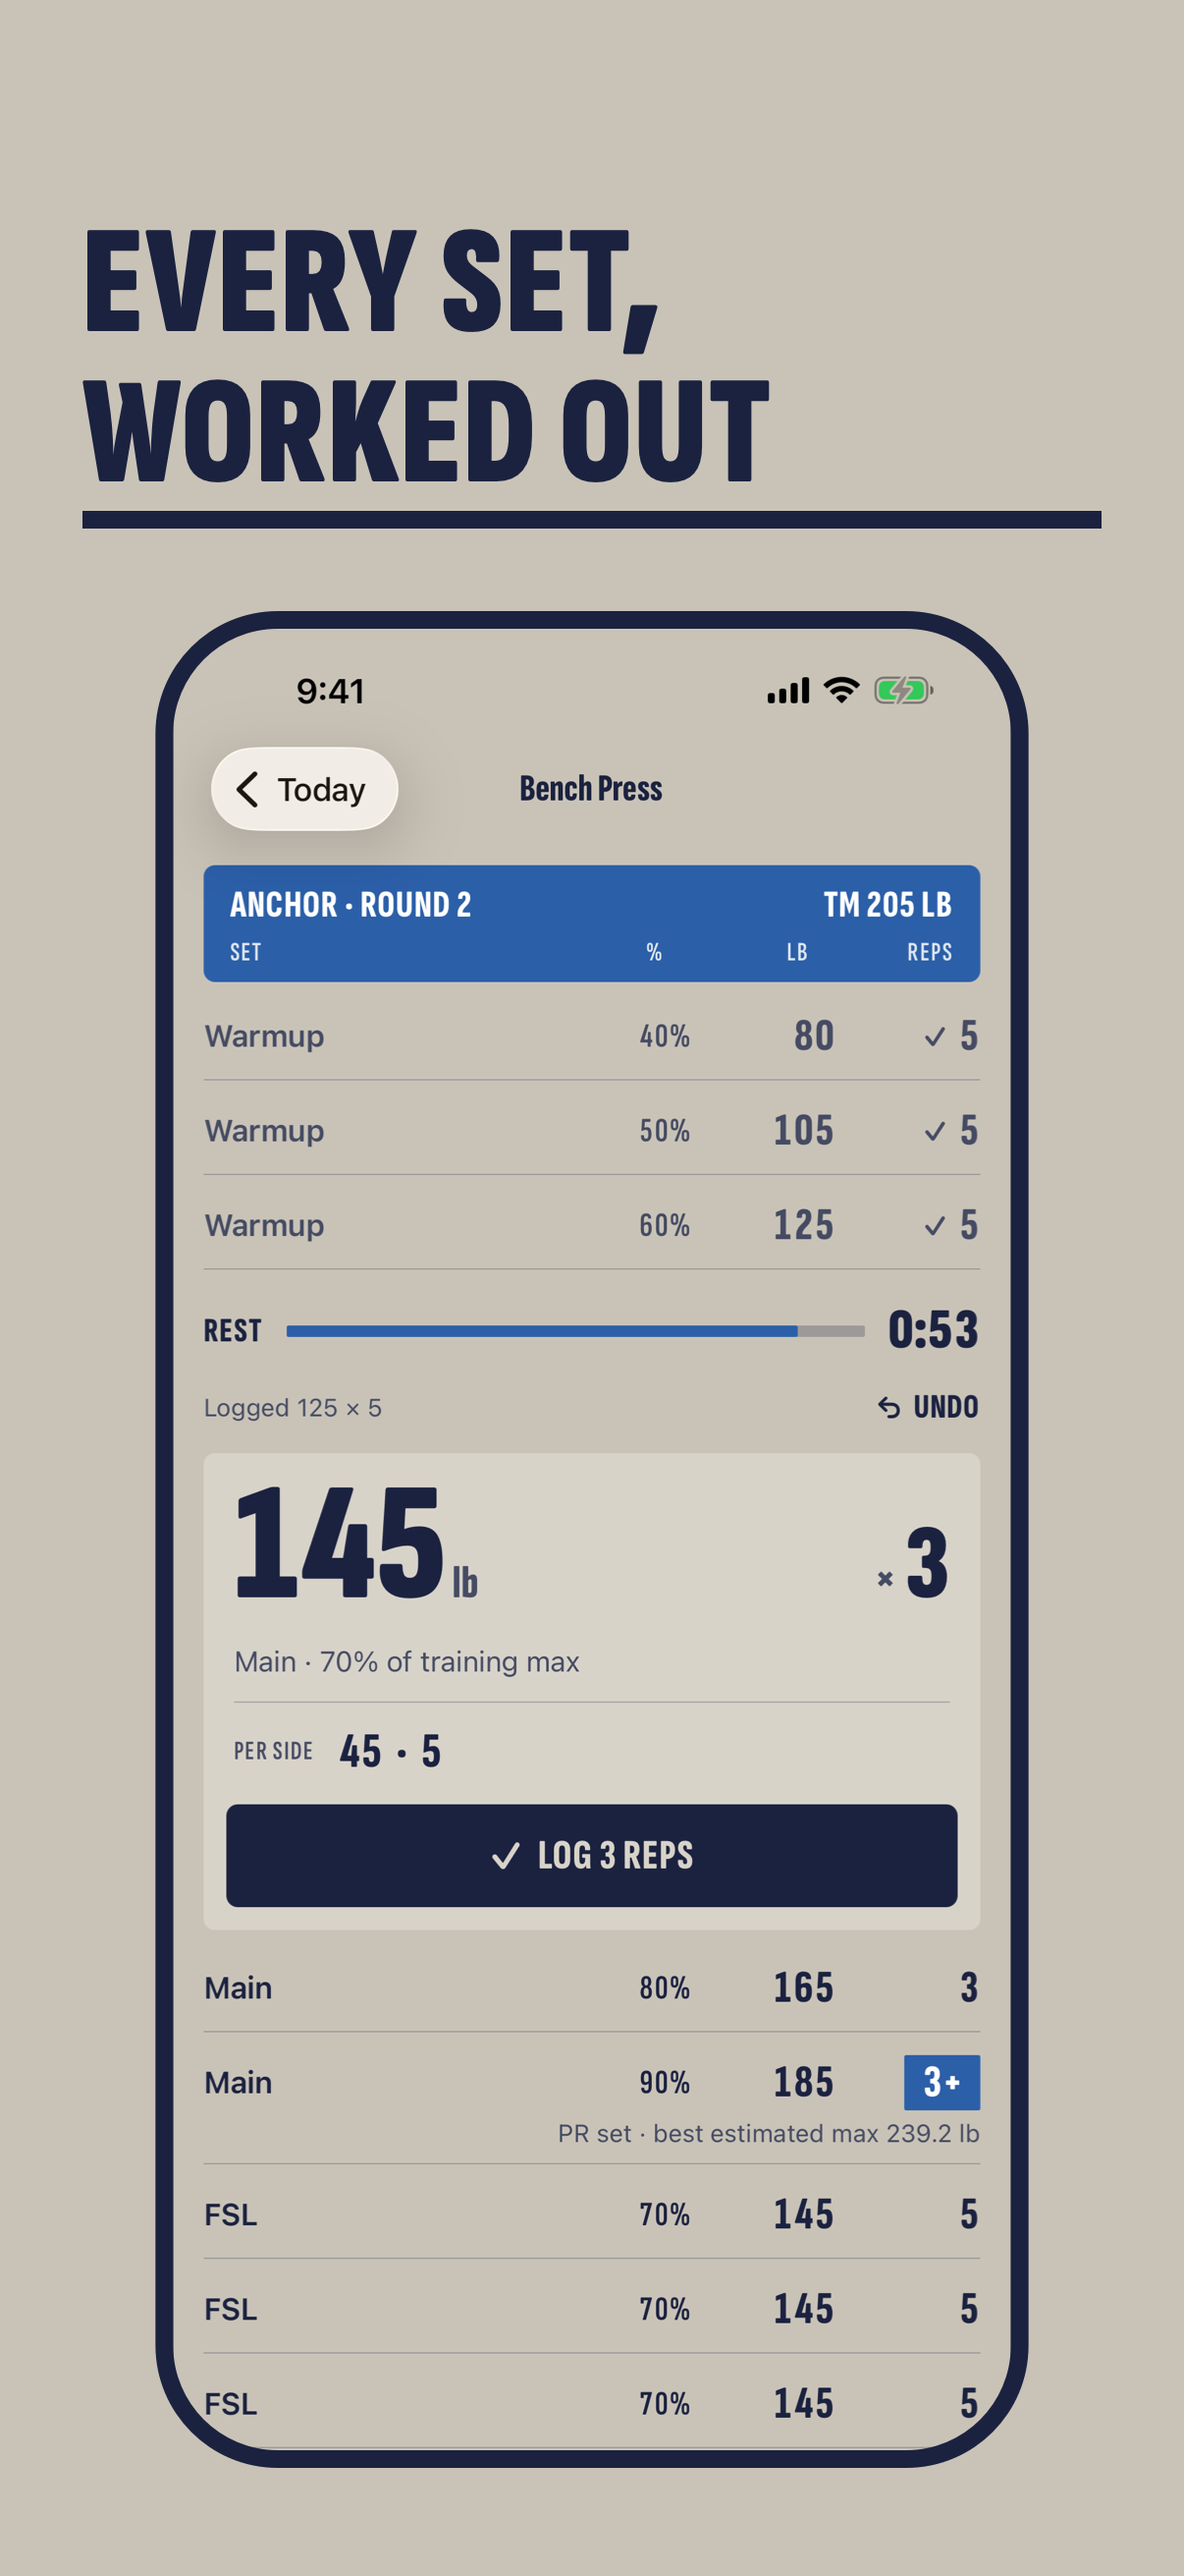
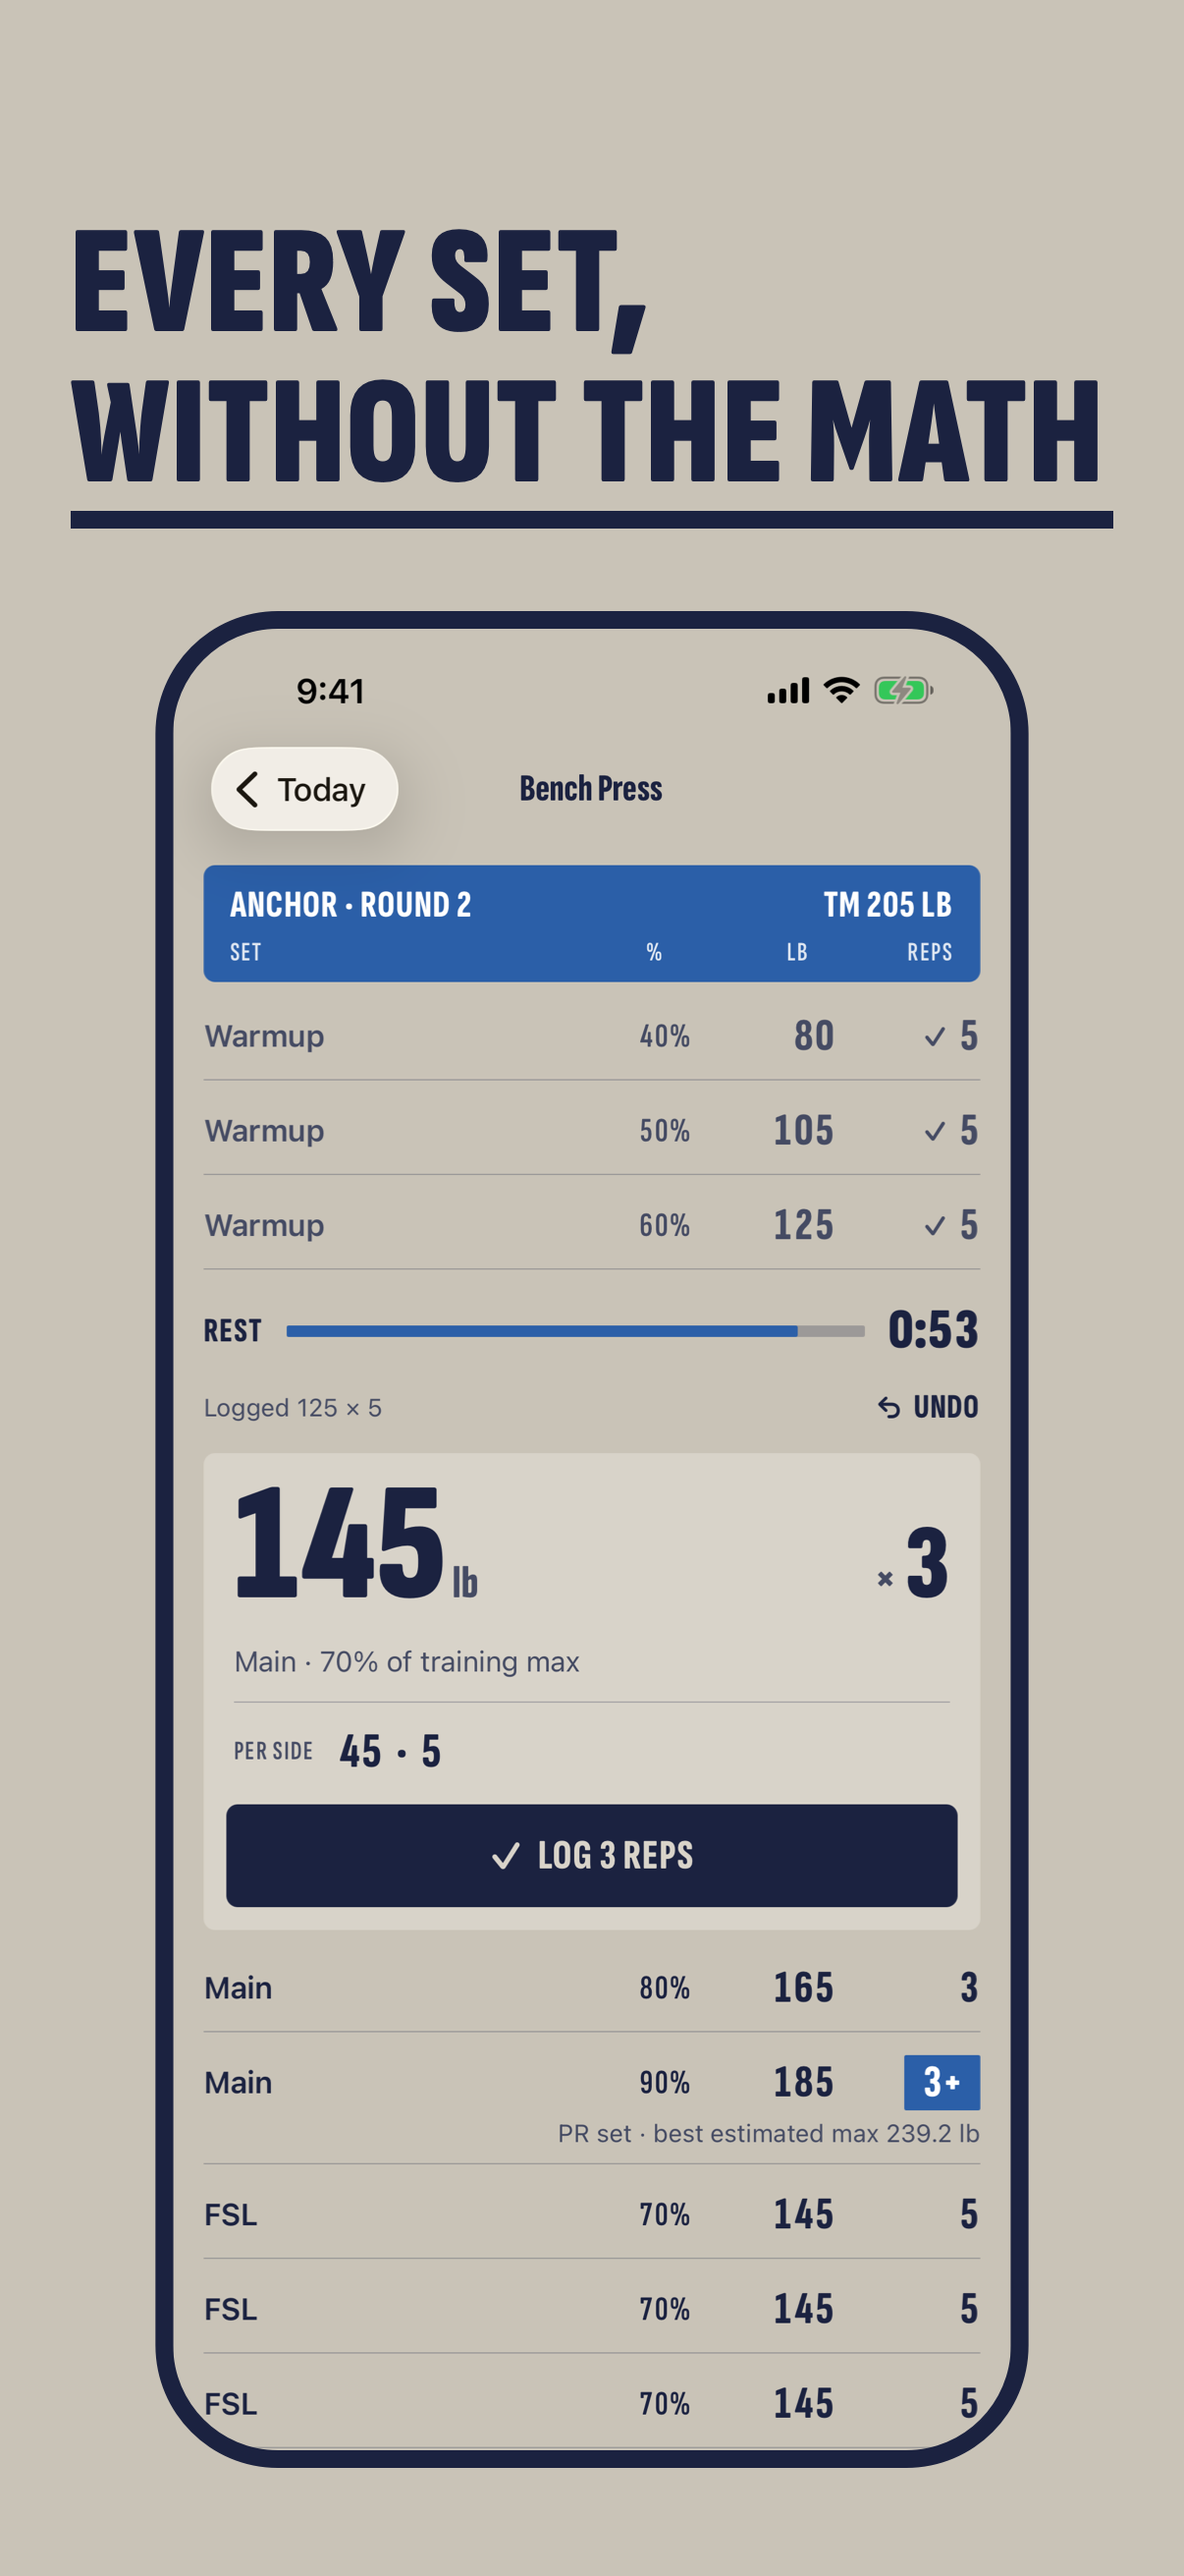
Recaption the screenshots, and show a max that climbs
The first caption now leads with what 5/3/1 asks of a lifter at the
bar, "Every set, without the math". History's is "Every round, on the
record", and the dark one is just "Light or dark". Today, History and
deadlift's chart are retaken against the seed in #22, so "Watch your
max climb" sits over a chart that climbs, 368.5 to 418, and Today and
History show the same lifter. The caption measure is 12px wider on each
side, so "WITHOUT THE MATH" fits. listing.md lists the new captions and
where each capture came from.

Changed region(s): [[0.0614, 0.0927, 0.9511, 0.1854]]

diff --git a/docs/app-store/listing.md b/docs/app-store/listing.md
@@ -84,18 +84,21 @@ Upload these into "iPhone with Dynamic Island (medium display)", the
 
 | File | Caption | Screen |
 |---|---|---|
-| `1-session.png` | Every set, worked out | bench's session at its first main set, rest timer running |
+| `1-session.png` | Every set, without the math | bench's session at its first main set, rest timer running |
 | `2-today.png` | Know what's next | Today, with bench's anchor session next |
-| `3-history.png` | Your career, round by round | History's career table |
+| `3-history.png` | Every round, on the record | History's career table |
 | `4-deadlift.png` | Watch your max climb | deadlift's chart of PR sets and past estimates |
-| `5-session-dark.png` | Light or dark, at the bar | the session in dark |
+| `5-session-dark.png` | Light or dark | the session in dark |
 
 Each caption is set like the app's section headings, in black condensed
 caps over a heavy rule. Below it, the screen sits in a flat phone edge in
 the ink, on the chipboard ground (night navy for the dark one), so the
 chipboard screens don't blend into the page. The screens are 1320×2868
 captures from the preview build on the iPhone 17 Pro Max simulator, signed
-in to the public demo. Each PNG records how it was made.
+in to a server seeded with `-demo`: Today, History and deadlift's chart on
+the seed where every estimated max climbs (#22), and the two session shots
+on the public demo, whose bench session is the same on either seed. Each PNG
+records how it was made.
 
 Kedge runs on iPhone only, so there's no iPad set.
 
